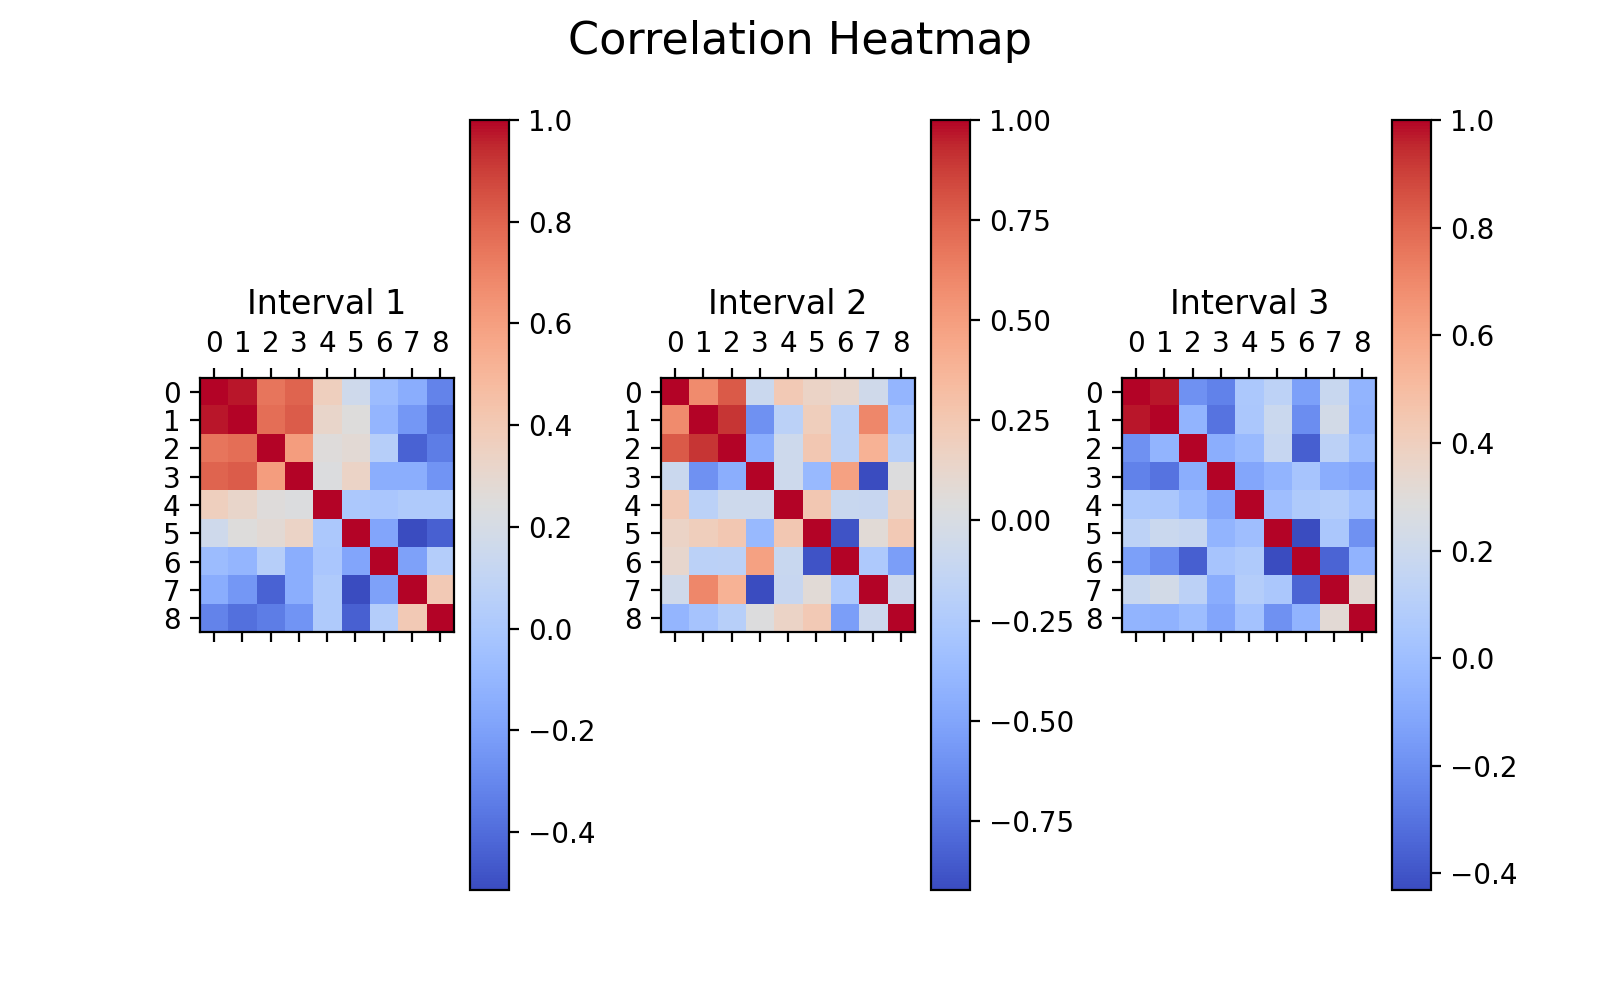
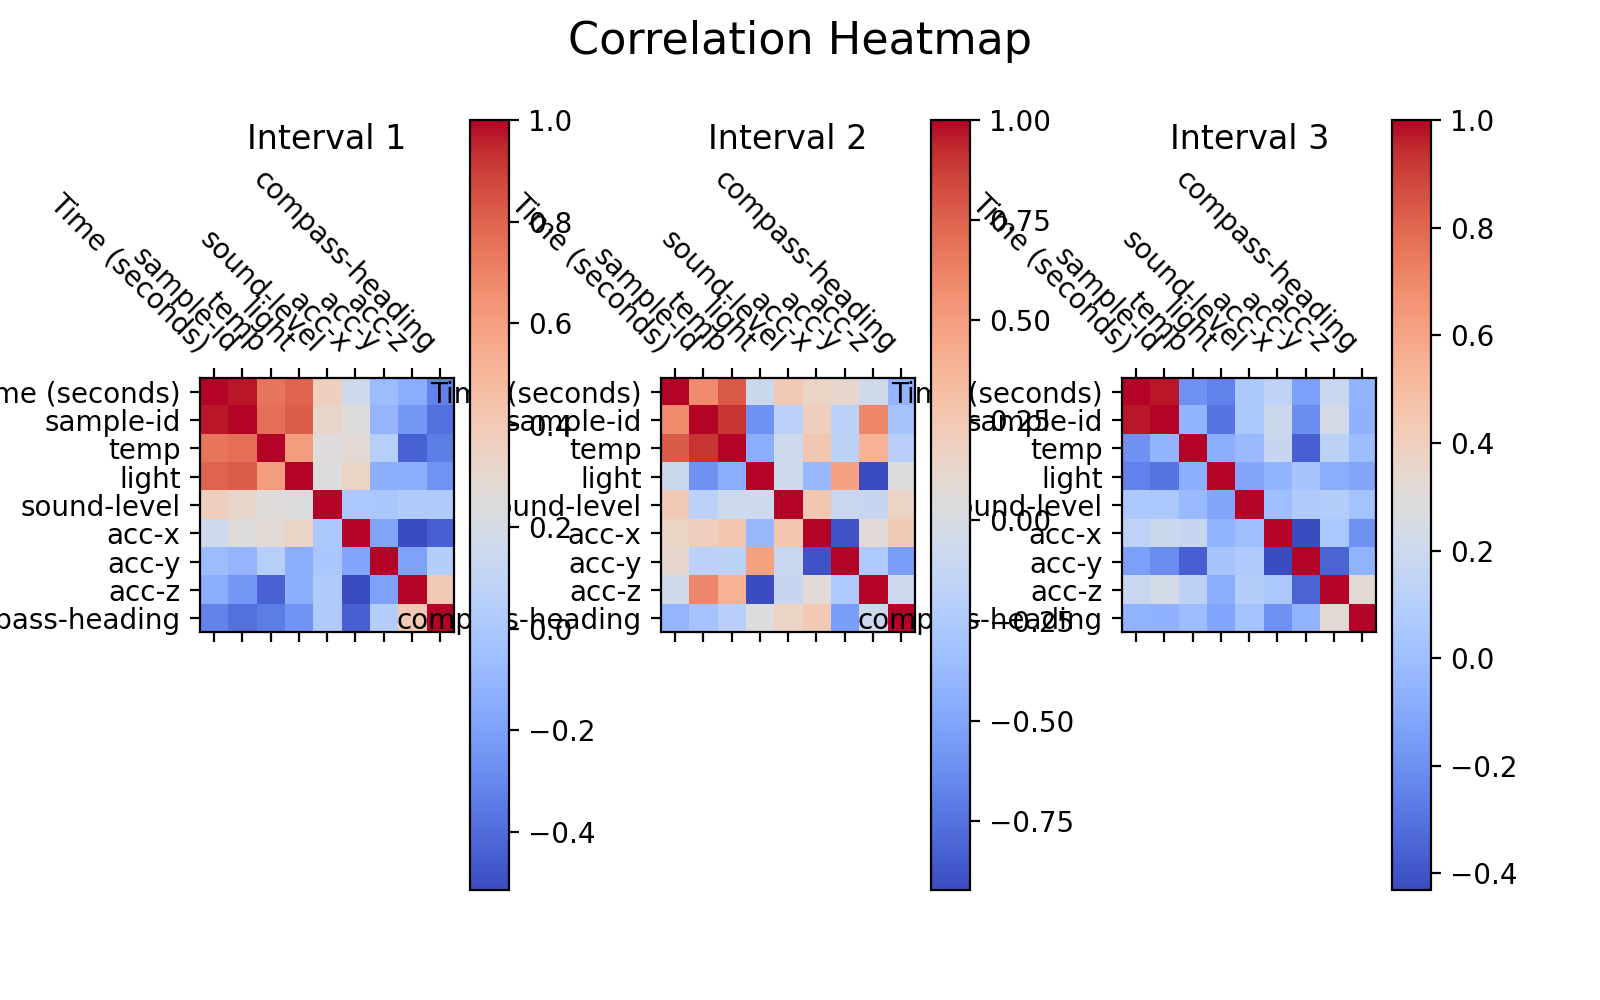
added correlation labels

diff --git a/main.py b/main.py
@@ -11,7 +11,6 @@ def get_data() -> pd.DataFrame:
     # Now I can group the data by measurement and return the grouped object to make the plots
     data_by_interval = dataframe.groupby('interval')
     # Get the number of intervals by counting the number of groups
-    print(data_by_interval.ngroups)
     return data_by_interval
 
 data_by_interval = get_data()
@@ -22,8 +21,6 @@ third_interval = data_by_interval.get_group(3)
 # Make a list of intervals
 list_of_intervals = [first_interval, second_interval, third_interval]
 
-print(plt.style.available)
-
 def all_data(list_of_intervals: list):
     plt.style.use('fivethirtyeight')
     for interval in list_of_intervals:
@@ -33,14 +30,13 @@ def all_data(list_of_intervals: list):
         plt.xlabel('Sample ID')
         plt.ylabel('Values')
         plt.legend(interval.loc[:, ~interval.columns.isin(['Time (seconds)', 'sample-id'])])
-        plt.get_current_fig_manager().window.state('zoomed')
+        # plt.get_current_fig_manager().window.state('zoomed') # Only works on Windows
         plt.savefig('charts/plot_alldata{}.png'.format(interval['interval'].iloc[0]), dpi=200)
         plt.show()
     
 def historic_temperature(list_of_intervals: list):
     # Convert the seconds to minutes to make the plot more readable
     plt.style.use('fivethirtyeight')
-
     plt.scatter(list_of_intervals[0]['Time (seconds)']/60, list_of_intervals[0]['temp'], color='pink', edgecolor='black')
     plt.scatter(list_of_intervals[1]['Time (seconds)']/60, list_of_intervals[1]['temp'], color='orange', edgecolor='black')
     plt.scatter(list_of_intervals[2]['Time (seconds)']/60, list_of_intervals[2]['temp'], color='green', edgecolor='black')
@@ -52,7 +48,7 @@ def historic_temperature(list_of_intervals: list):
     plt.xticks(np.arange(0, 240, 15))
     plt.legend(['Interval 1', 'Interval 2', 'Interval 3'])
     plt.grid(True)
-    plt.get_current_fig_manager().window.state('zoomed')
+    # plt.get_current_fig_manager().window.state('zoomed') # Only works on Windows
     plt.savefig('charts/scatter_temperature.png', bbox_inches ="tight", dpi=200)
     plt.show()
     
@@ -80,8 +76,8 @@ def historic_light(list_of_intervals: list):
     axs[1].set_ylabel('Light level (lux)')
     fig.suptitle('Light level', fontsize=16)
     plt.xlabel('Nº of measurements')
-    plt.get_current_fig_manager().window.state('zoomed')
     plt.subplots_adjust(hspace=0.55)
+    # plt.get_current_fig_manager().window.state('zoomed') # Only works on Windows
     plt.savefig('charts/barh_light.png', bbox_inches ="tight", dpi=200)
     plt.show()
      
@@ -101,7 +97,7 @@ def historic_sound(list_of_intervals: list):
     axs[1].set_xlabel('Sound level (dB)')
     axs[0].set_ylabel('Nº of measurements')
     fig.suptitle('Sound level', fontsize=16)
-    plt.get_current_fig_manager().window.state('zoomed')
+    # plt.get_current_fig_manager().window.state('zoomed') # Only works on Windows
     plt.savefig('charts/hist_sound_level.png', bbox_inches ="tight", dpi=200)
     plt.show()
     
@@ -125,25 +121,25 @@ def historic_acceleration(list_of_intervals: list):
         min_y = interval['sample-id'][interval['acc-y'].idxmin()]
         min_z = interval['sample-id'][interval['acc-z'].idxmin()]
         # Annotate the values
-        axs[i].annotate(f'Max: {interval['acc-x'].max()}', xy=(max_x, interval['acc-x'].max()), xytext=(max_x, interval['acc-x'].max() + 750),
+        axs[i].annotate('Max: {}'.format(interval['acc-x'].max()), xy=(max_x, interval['acc-x'].max()), xytext=(max_x, interval['acc-x'].max() + 750),
                         arrowprops=dict(facecolor='black', arrowstyle='simple'))
-        axs[i].annotate(f'Max: {interval['acc-y'].max()}', xy=(max_y, interval['acc-y'].max()), xytext=(max_y, interval['acc-y'].max() + 750),
+        axs[i].annotate('Max: {}'.format(interval['acc-y'].max()), xy=(max_y, interval['acc-y'].max()), xytext=(max_y, interval['acc-y'].max() + 750),
                         arrowprops=dict(facecolor='black', arrowstyle='simple'))
-        axs[i].annotate(f'Max: {interval['acc-z'].max()}', xy=(max_z, interval['acc-z'].max()), xytext=(max_z, interval['acc-z'].max() + 750),
+        axs[i].annotate('Max: {}'.format(interval['acc-z'].max()), xy=(max_z, interval['acc-z'].max()), xytext=(max_z, interval['acc-z'].max() + 750),
                         arrowprops=dict(facecolor='black', arrowstyle='simple'))
-        axs[i].annotate(f'Min: {interval['acc-x'].min()}', xy=(min_x, interval['acc-x'].min()), xytext=(min_x, interval['acc-x'].min() - 750),
+        axs[i].annotate('Min: {}'.format(interval['acc-x'].min()), xy=(min_x, interval['acc-x'].min()), xytext=(min_x, interval['acc-x'].min() - 750),
                         arrowprops=dict(facecolor='black', arrowstyle='simple'))
-        axs[i].annotate(f'Min: {interval['acc-y'].min()}', xy=(min_y, interval['acc-y'].min()), xytext=(min_y, interval['acc-y'].min() - 750),
+        axs[i].annotate('Min: {}'.format(interval['acc-y'].min()), xy=(min_y, interval['acc-y'].min()), xytext=(min_y, interval['acc-y'].min() - 750),
                         arrowprops=dict(facecolor='black', arrowstyle='simple'))
-        axs[i].annotate(f'Min: {interval['acc-z'].min()}', xy=(min_z, interval['acc-z'].min()), xytext=(min_z, interval['acc-z'].min() - 750),
+        axs[i].annotate('Min: {}'.format(interval['acc-z'].min()), xy=(min_z, interval['acc-z'].min()), xytext=(min_z, interval['acc-z'].min() - 750),
                         arrowprops=dict(facecolor='black', arrowstyle='simple'))
     
     plt.legend()
     axs[1].set_ylabel('Acceleration (mg)')
     plt.xlabel('Nº of measurements')
     fig.suptitle('Acceleration or deceleration', fontsize=16)
-    plt.get_current_fig_manager().window.state('zoomed')
     plt.subplots_adjust(hspace=0.55)
+    # plt.get_current_fig_manager().window.state('zoomed') # Only works on Windows
     plt.savefig('charts/plot_accel.png', bbox_inches ="tight", dpi=200)
     plt.show()
         
@@ -168,7 +164,7 @@ def historic_compass_heading(list_of_intervals: list):
         axs[i].add_artist(centre_circle)
     
     fig.suptitle('Compass heading')
-    plt.get_current_fig_manager().window.state('zoomed')
+    # plt.get_current_fig_manager().window.state('zoomed') # Only works on Windows
     plt.savefig('charts/pie_compass_heading.png', dpi=200)
     plt.show()
     
@@ -180,12 +176,20 @@ def correlations(list_of_intervals: list):
         # We need to exclude the last row and column for getting rid of the blank space
         corr_matrix = corr_matrix.iloc[:-1, :-1]  
         im = axs[i].matshow(corr_matrix, cmap='coolwarm')
-        cb = plt.colorbar(im, ax=axs[i])
+        fig.colorbar(im, ax=axs[i]) 
+        # Set the ticks of the x and y axis as the column names
+        axs[i].set_xticks(np.arange(len(corr_matrix.columns)), labels=corr_matrix.columns)
+        axs[i].set_yticks(np.arange(len(corr_matrix.columns)), labels=corr_matrix.columns)
         axs[i].set_title('Interval {}'.format(interval['interval'].iloc[0]))
+
+    axs[0].set_xticklabels(axs[0].get_xticklabels(), rotation=-45, ha='right')
+    axs[1].set_xticklabels(axs[1].get_xticklabels(), rotation=-45, ha='right')
+    axs[2].set_xticklabels(axs[2].get_xticklabels(), rotation=-45, ha='right')
+
 
     fig.suptitle('Correlation Heatmap', fontsize=16)
     plt.subplots_adjust(wspace=0.45)
-    plt.get_current_fig_manager().window.state('zoomed')
+    # plt.get_current_fig_manager().window.state('zoomed') # Only works on Windows
     plt.savefig('charts/correlation_heatmap.png', dpi=200)
     plt.show()
     
